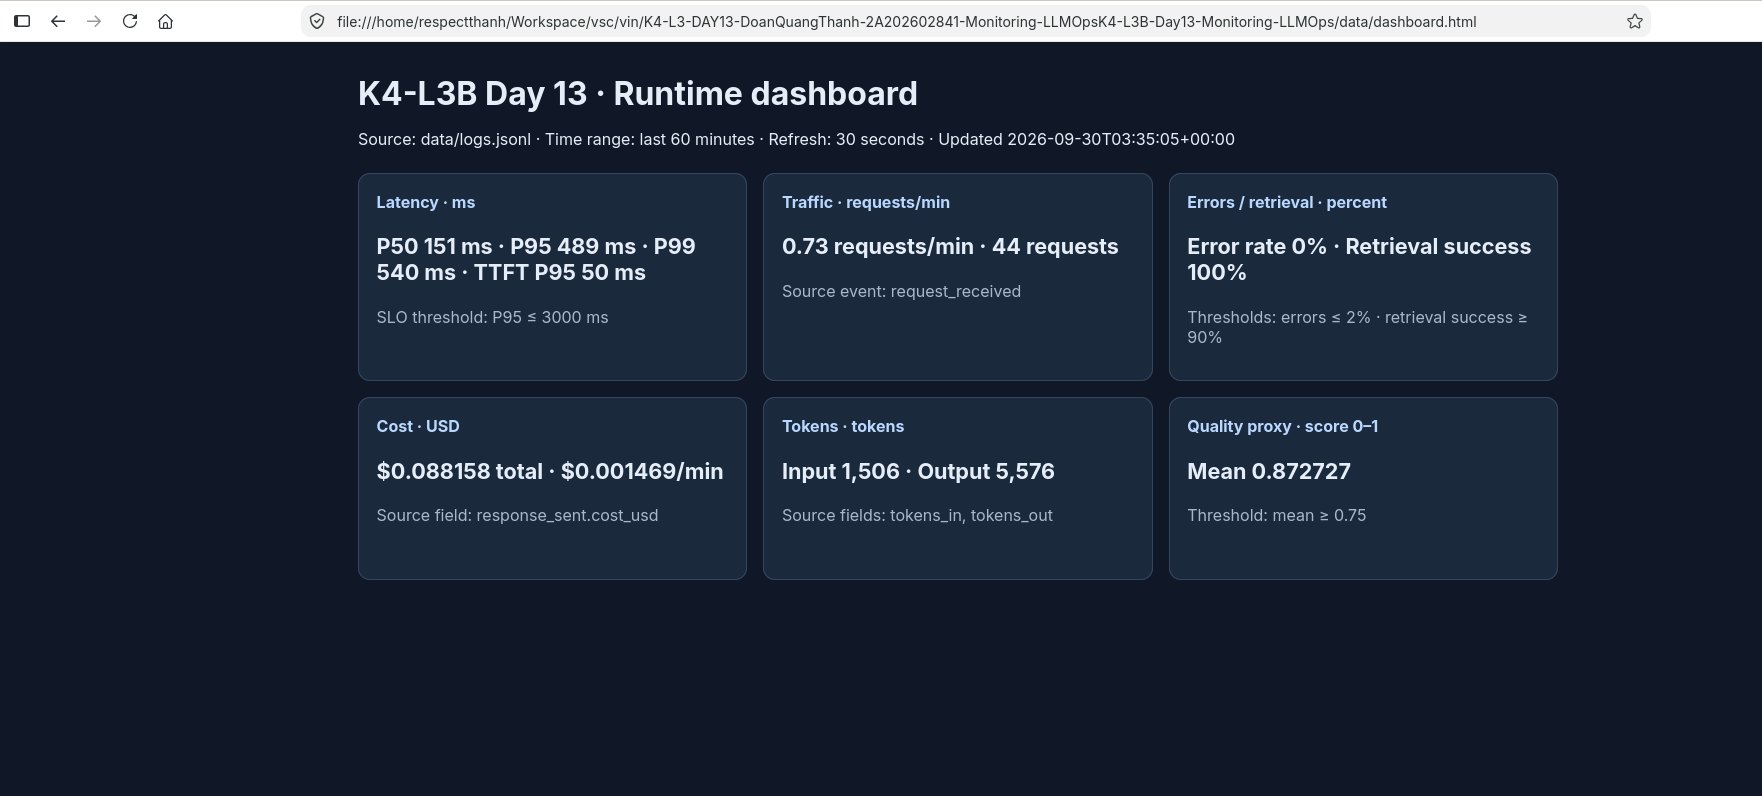
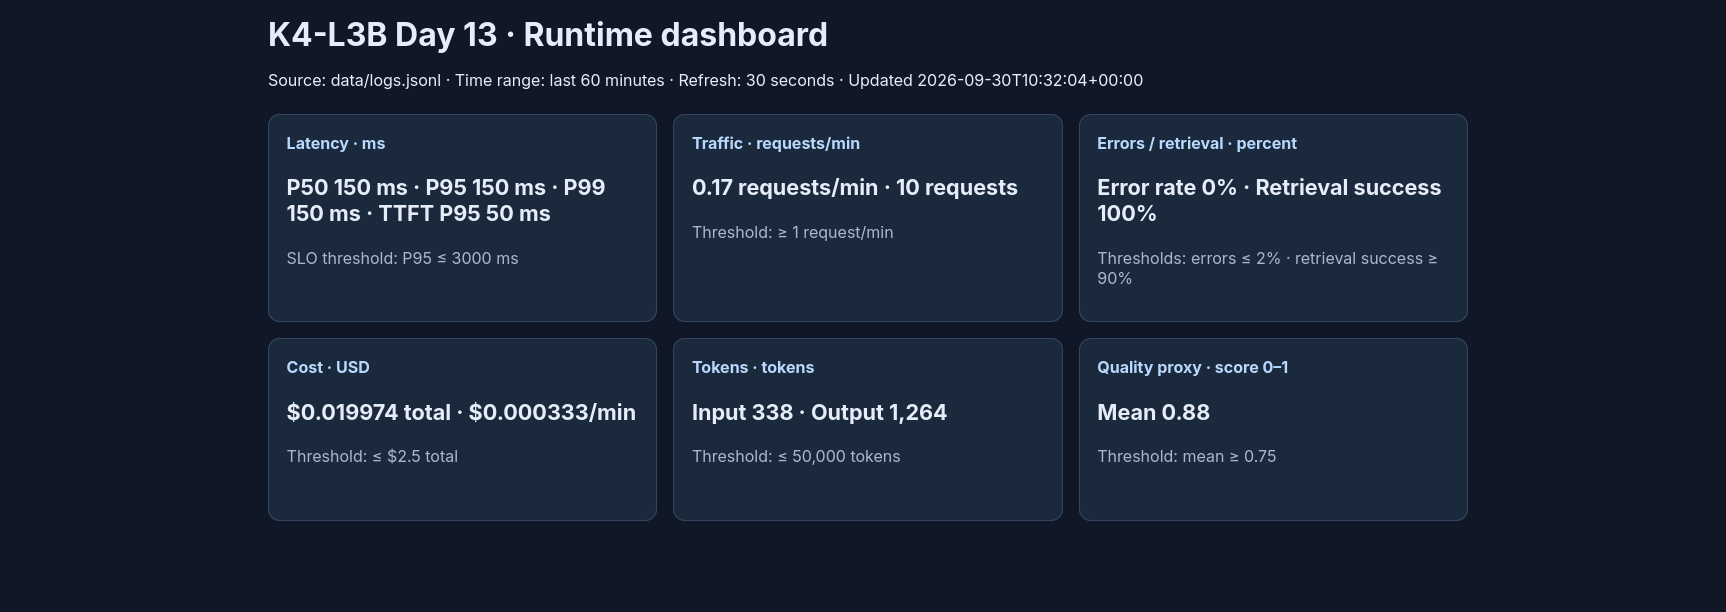
docs: finalize Day 13 report and runtime evidence

diff --git a/submission/REPORT.md b/submission/REPORT.md
@@ -1,6 +1,6 @@
 # Báo cáo cá nhân — K4-L3B Day 13 Monitoring & LLMOps
 
-> Runtime verification có thật được lưu trong `evidence/`. Official challenge đã chạy và được điều tra; ảnh incident 12–14 đã lưu.
+> Mỗi học viên hoàn thiện một file duy nhất này. Khi dẫn evidence, dùng đường dẫn tương đối, ví dụ `evidence/07-trace-waterfall.png`.
 
 ## 1. Thông tin học viên
 
@@ -8,101 +8,95 @@
 - **MSSV:** 2A202602841
 - **Lớp:** K4-L3B
 - **Repository URL:** https://github.com/dqtxdy/K4-L3-DAY13-DoanQuangThanh-2A202602841-Monitoring-LLMOpsK4-L3B-Day13-Monitoring-LLMOps
-- **Commit SHA cuối:** lấy giá trị sau khi push bằng `git rev-parse HEAD` và nộp cùng URL repository trên LMS/Codelabs.
-- **Challenge ID:** `day13-k4-l3b-monitoring-llmops-v1` (cohort K4; file gốc được giữ local và ignored).
-- **Tên project Langfuse cá nhân:** `day13-k4-l3b-2A202602841` (verified qua API sau khi đổi tên).
+- **Commit SHA cuối:** Chưa có commit chứa audit hiện tại.
+- **Challenge ID:** `day13-k4-l3b-monitoring-llmops-v1`
+- **Tên project Langfuse cá nhân:** `day13-k4-l3b-2A202602841`
 
 ## 2. Evidence index
 
-Các file text/JSON dưới đây là output runtime/API thật. Screenshot là ảnh UI thật; ảnh 06 đã che khu vực tài khoản, ảnh 08 đã che giá trị public key, các ảnh 07/09/10 là bản chụp mới có project context cần thiết.
+Điền đúng đường dẫn tới evidence thực tế. Có thể đổi tên hoặc dùng nhiều ảnh nếu cần.
 
-| Evidence | Đường dẫn / trạng thái |
+| Evidence | Đường dẫn |
 |---|---|
 | Pytest cuối | [`evidence/01-pytest.txt`](evidence/01-pytest.txt) |
 | Log validator | [`evidence/02-log-validator.txt`](evidence/02-log-validator.txt) |
 | Dashboard validator | [`evidence/03-dashboard-validator.txt`](evidence/03-dashboard-validator.txt) |
-| Structured log | [`evidence/04-structured-log.jsonl`](evidence/04-structured-log.jsonl), `04-structured-log.png` (runtime screenshot; chữ nhỏ, cần chụp rõ hơn nếu có thể) |
-| PII redaction | [`evidence/05-pii-redaction.txt`](evidence/05-pii-redaction.txt), `05-pii-redaction.png` |
-| Trace list | [`evidence/06-trace-list.txt`](evidence/06-trace-list.txt); `06-trace-list.png` (ảnh thật; che khu vực tài khoản ở góc trái dưới) |
-| Trace waterfall | [`evidence/07-trace-waterfall.txt`](evidence/07-trace-waterfall.txt), `07-trace-waterfall.png` (ảnh chụp mới, có project title và trace tree) |
-| Trace metadata | [`evidence/08-trace-metadata.txt`](evidence/08-trace-metadata.txt); `08-trace-metadata.png` (ảnh thật; đã che giá trị `scope.attributes.public_key`) |
-| Prompt versions | [`evidence/09-prompt-versions.txt`](evidence/09-prompt-versions.txt), `09-prompt-versions.png` (ảnh chụp mới, hiển thị v1/v2 và project title) |
-| Prompt rollback | [`evidence/10-prompt-rollback.txt`](evidence/10-prompt-rollback.txt); `10-prompt-rollback-before.png` (v2 production), `10-prompt-rollback-after.png` (rollback về v1) |
-| Dashboard runtime | [`evidence/11-dashboard-runtime.txt`](evidence/11-dashboard-runtime.txt), `11-dashboard-overview.png` |
-| Incident metric | [`evidence/12-incident-metric.txt`](evidence/12-incident-metric.txt); [`evidence/12-incident-metric.png`](evidence/12-incident-metric.png) |
-| Incident log | [`evidence/13-incident-log.jsonl`](evidence/13-incident-log.jsonl); [`evidence/13-incident-log.png`](evidence/13-incident-log.png) (mở ảnh ở độ phân giải gốc để đọc JSON) |
-| Incident trace | [`evidence/14-incident-trace.txt`](evidence/14-incident-trace.txt); [`evidence/14-incident-trace.png`](evidence/14-incident-trace.png) (giá trị public key đã che) |
-| Recovery | [`evidence/15-incident-recovery.txt`](evidence/15-incident-recovery.txt) |
+| Structured log | [`evidence/04-structured-log.png`](evidence/04-structured-log.png), [`evidence/04-structured-log.jsonl`](evidence/04-structured-log.jsonl) |
+| PII redaction | [`evidence/05-pii-redaction.png`](evidence/05-pii-redaction.png), [`evidence/05-pii-redaction.txt`](evidence/05-pii-redaction.txt) |
+| Trace list | [`evidence/06-trace-list.png`](evidence/06-trace-list.png) |
+| Trace waterfall | [`evidence/07-trace-waterfall.png`](evidence/07-trace-waterfall.png) |
+| Trace metadata | [`evidence/08-trace-metadata.png`](evidence/08-trace-metadata.png) |
+| Prompt versions | [`evidence/09-prompt-versions.png`](evidence/09-prompt-versions.png) |
+| Prompt rollback | [`evidence/10-prompt-rollback-before.png`](evidence/10-prompt-rollback-before.png), [`evidence/10-prompt-rollback-after.png`](evidence/10-prompt-rollback-after.png) |
+| Dashboard runtime | [`evidence/11-dashboard-overview.png`](evidence/11-dashboard-overview.png) |
+| Incident metric | [`evidence/12-incident-metric.png`](evidence/12-incident-metric.png), [`evidence/12-incident-metric.txt`](evidence/12-incident-metric.txt) |
+| Incident log | [`evidence/13-incident-log.png`](evidence/13-incident-log.png), [`evidence/13-incident-log.jsonl`](evidence/13-incident-log.jsonl) |
+| Incident trace | [`evidence/14-incident-trace.png`](evidence/14-incident-trace.png), [`evidence/14-incident-trace.txt`](evidence/14-incident-trace.txt) |
 
 ## 3. Kết quả kỹ thuật
 
-| Nội dung | Baseline thực tế | Kết quả cuối hiện có | Nhận xét |
+| Nội dung | Baseline | Kết quả cuối | Nhận xét |
 |---|---|---|---|
-| `validate_logs.py` | Exit 1: `data/logs.jsonl` not found | 100/100; 64 records, 32 unique correlation IDs | `evidence/02-log-validator.txt` |
+| `validate_logs.py` | Exit 1: `data/logs.jsonl` chưa tồn tại | 100/100; 20 records, 10 correlation IDs | `evidence/02-log-validator.txt` |
 | `validate_dashboard.py` | 6/6 | 6/6 | `evidence/03-dashboard-validator.txt` |
-| `pytest` | Collection error: dependencies missing | 26 passed after the incident concurrency fix | [`evidence/01-pytest.txt`](evidence/01-pytest.txt) |
-| Số traces | Chưa có | 24 root traces; 24 đủ root/retrieval/generation; 14 managed-prompt traces | Langfuse Observations API v2; evidence 06–08 |
-| Số PII leak | Chưa có runtime log | 0/64 runtime records in final validation | `evidence/05-pii-redaction.txt` |
-| Latency P95 / TTFT P95 | Chưa có | 489 ms / 50 ms trong cửa sổ 60 phút | `evidence/11-dashboard-runtime.txt` |
-| Retrieval success rate | Chưa có | 100% (44/44 response thành công) | Runtime logs |
+| `pytest` | Collection error: dependencies missing | 26 passed in 1.92s | `evidence/01-pytest.txt` |
+| Số traces hợp lệ | Chưa có | 24 root trace có đủ retrieval/generation; 14 trace dùng managed prompt | Langfuse Observations API v2 |
+| Số PII leak | Chưa có runtime log | 0 trong 20 records của corpus cuối | `evidence/02-log-validator.txt`, `evidence/05-pii-redaction.txt` |
+| Latency P95 / TTFT P95 | Chưa có | 150 ms / 50 ms trong cửa sổ 60 phút | `evidence/11-dashboard-overview.png` |
+| Retrieval success rate | Chưa có | 100% trong workload 10 request hiển thị trên dashboard | `evidence/11-dashboard-overview.png` |
 
 ## 4. Logging và PII
 
-- **Cách tạo/nhận và truyền correlation ID:** middleware nhận `x-request-id` nếu chỉ chứa ký tự an toàn và dài tối đa 128; nếu thiếu/không hợp lệ, sinh `req-<8 hex>`. ID được bind bằng structlog contextvars, trả qua `x-request-id`; `x-response-time-ms` trả thời gian middleware. Context được clear ở đầu/cuối request.
-- **Các metadata được ghi vào structured log:** `user_id_hash` (SHA-256 rút gọn), `session_id`, `feature`, `model`, `env`, cùng event, correlation ID, latency/TTFT, token, cost, quality và retrieval status theo event.
-- **Cách bảo đảm PII được scrub trước khi ghi:** processor đệ quy chạy sau format exception, trước `JsonlFileProcessor` và JSON renderer. Redaction áp dụng trên mọi string trong dict/list/tuple, gồm payload và lỗi.
-- **Cách kiểm chứng kết quả:** Full suite 26 passed after the incident fix (`evidence/01-pytest.txt`). Final validator không phát hiện PII trong 64 runtime records; canary email/card được redacted trong log. Runtime samples nằm ở evidence 04/05.
+- **Cách tạo/nhận và truyền correlation ID:** middleware nhận `x-request-id` hợp lệ hoặc sinh `req-<8 hex>`, bind qua structlog contextvars, trả lại `x-request-id` và `x-response-time-ms`; context được reset ở đầu/cuối request.
+- **Các metadata được ghi vào structured log:** `user_id_hash`, `session_id`, `feature`, `model`, `env`, event, correlation ID, latency/TTFT, token, cost, quality và retrieval status theo event.
+- **Cách bảo đảm PII được scrub trước khi ghi:** processor đệ quy chạy trước `JsonlFileProcessor` và JSON renderer, bao gồm string lồng trong payload và exception.
+- **Cách kiểm chứng kết quả:** 26 test pass; log validator không phát hiện PII trong 20 records của corpus cuối. Canary email, điện thoại và thẻ đã được redact trước khi ghi; trace metadata được kiểm tra không có PII thô.
 
 ## 5. Tracing và prompt versioning
 
-- **Cách xác nhận traces do chính tôi tạo trong project cá nhân:** Observations API v2 trả về 24 root traces và 72 observations trong project `day13-k4-l3b-2A202602841`; 14 traces dùng managed prompt.
-- **Cấu trúc root/retrieval/generation observations:** đã xác minh 24/24 cây có root `lab-agent-run` và children `retrieval`, `generation`. Generation có model, token usage, estimated cost, TTFT, latency và prompt linkage. Mock estimate dùng $3/1M input tokens và $15/1M output tokens; đây không phải hóa đơn model thật.
-- **Cách nối trace với log:** correlation ID khớp giữa root/child trace metadata và JSONL runtime; ví dụ v2 production `req-3831fed9` trong trace `64fd75aabb757f9c63c837baec12c2eb`.
-- **Prompt name:** `day13-chat` (cấu hình qua `LANGFUSE_PROMPT_NAME`).
-- **Version/label baseline:** v1 labels `baseline`, `production`.
-- **Version/label candidate:** v2 label `candidate`; đã promote `production` sang v2, sau đó rollback về v1.
-- **Trace ID của mỗi version:** baseline v1 `4af9e41823d79b7e39a6ac2bd0fab7fc` / `req-56cea1f8`; candidate v2 `eb3357d5c646d0292bb84bfe0839ed07` / `req-3af9eabe`; production v2 `64fd75aabb757f9c63c837baec12c2eb` / `req-3831fed9`; rollback production v1 `43219092e7930b9e28a3f1f1418d44db` / `req-84b86246`.
-- **Cách promote và rollback `production`:** gọi Langfuse update theo version rồi resolve label thực tế; live sequence trả 1 → 2 → 1. App ghi version Langfuse trả về, không gán cứng.
+- **Cách xác nhận traces do chính tôi tạo trong project cá nhân:** Observations API v2 ghi nhận 24 root trace trong project `day13-k4-l3b-2A202602841`; 14 trace dùng managed prompt.
+- **Cấu trúc root/retrieval/generation observations:** 24/24 root `lab-agent-run` có child `retrieval` và `generation`. Generation ghi model, usage, cost estimate và prompt linkage.
+- **Cách nối trace với log:** correlation ID trong structured log khớp metadata trace; ví dụ `req-3831fed9` trong trace `64fd75aabb757f9c63c837baec12c2eb`.
+- **Prompt name:** `day13-chat`.
+- **Version/label baseline:** v1 với label `baseline` và `production`.
+- **Version/label candidate:** v2 với label `candidate`; `production` đã chuyển sang v2 rồi rollback về v1.
+- **Trace ID của mỗi version:** baseline v1 `4af9e41823d79b7e39a6ac2bd0fab7fc`; candidate v2 `eb3357d5c646d0292bb84bfe0839ed07`; production v2 `64fd75aabb757f9c63c837baec12c2eb`; rollback v1 `43219092e7930b9e28a3f1f1418d44db`.
+- **Cách promote và rollback `production`:** resolve prompt theo label, cập nhật label production và chạy lại cùng input; version trong trace là version Langfuse resolve thực tế, theo chuỗi 1 → 2 → 1.
 
 ## 6. Dashboard, SLO và alerts
 
-- **Dashboard và sáu panel:** `config/dashboard.yaml` quy định latency P50/P95/P99 + TTFT, traffic, errors/retrieval, cost, tokens và quality. Renderer đọc 89 JSONL records thật trong lần baseline đã ghi evidence 11 và tạo `data/dashboard.html`; baseline P95 489 ms, TTFT P95 50 ms. Challenge snapshot (evidence 12) đo P95 3067 ms, vượt threshold challenge 2000 ms.
-- **SLO và lý do chọn:** [`config/slo.yaml`](../config/slo.yaml) đặt SLI là request thành công với latency ≤3000 ms trong cửa sổ 28 ngày, target 99.5%. Ngưỡng 3 giây là threshold lab tương ứng panel latency, không phải kết quả baseline đo được.
-- **Cách tính error budget:** 100% − 99.5% = 0.5% trong 28 ngày; ví dụ 10,000 requests có tối đa 50 request không đạt. SLI dùng event response hợp lệ trong tổng số request nhận.
-- **Ba alert và runbook tương ứng:** [`config/alert_rules.yaml`](../config/alert_rules.yaml) định nghĩa P95 >3000 ms/5m, error rate >2%/5m, retrieval success <90%/5m. Cả ba có severity, owner `student-repository-owner`, Slack `#k4-l3b-alerts`, và runbook tại [`docs/alerts.md`](../docs/alerts.md). Alert runtime chưa được triển khai tới dịch vụ Slack.
+- **Dashboard và sáu panel:** latency/TTFT, traffic, errors/retrieval, cost, tokens và quality được tính từ `data/logs.jsonl`; threshold hiển thị lần lượt gồm P95 ≤3000 ms, ≥1 request/min, error ≤2%, retrieval ≥90%, cost ≤$2.5, tokens ≤50,000 và quality ≥0.75.
+- **SLO và lý do chọn:** SLI là request thành công với latency ≤3000 ms; target 99.5% trong cửa sổ 28 ngày theo `config/slo.yaml`. Ba giây là ngưỡng lab của panel latency.
+- **Cách tính error budget:** 100% − 99.5% = 0.5% trong 28 ngày; tương đương tối đa 50 request không đạt trên 10,000 request.
+- **Ba alert và runbook tương ứng:** P95 >3000 ms/5m, error rate >2%/5m, retrieval success <90%/5m; owner `student-2A202602841`, channel `slack`, runbook tại `docs/alerts.md`.
 
 ## 7. Điều tra challenge
 
-- **Challenge ID:** `day13-k4-l3b-monitoring-llmops-v1`; cohort K4. `config/challenge.json` là file Lab Coach cấp, bị ignore và không nằm trong commit.
-- **Khoảng thời gian điều tra:** 2026-09-30 05:13:51–05:14:04 UTC (12:13:51–12:14:04 Asia/Ho_Chi_Minh).
-- **Triệu chứng từ metrics:** ngưỡng chính thức là 2000 ms. Năm response đều HTTP 200 nhưng 5/5 vượt ngưỡng; latency app P50 2652 ms, P95/P99 3067 ms. TTFT P95 50 ms; error rate 0%. Client load test với concurrency 5 báo xấp xỉ 13.8 s/request.
-- **Log line và correlation ID liên quan:** `evidence/13-incident-log.jsonl`, event `response_sent`, `correlation_id=req-68327b43`, `latency_ms=3067`, `tool_success=true`.
-- **Trace ID và span gây ảnh hưởng:** trace `9df0c93f6219d8ee11b7247068523f44`, cùng correlation ID `req-68327b43`. Retrieval child span `86c806cd0cb4c5f2` mất 2.501 s; generation child `039f37f9feffb8e7` mất 0.150 s. Root duration 3.068 s. Chi tiết đã lọc input/output và resource attributes trong `evidence/14-incident-trace.txt`.
-- **Root cause:** challenge inject `rag_slow` làm retrieval path chờ 2.5 s, cao hơn ngưỡng 2 s. Đồng thời `agent.run()` là hàm đồng bộ được gọi trực tiếp trong async route; blocking wait chặn event loop và xếp hàng năm request concurrent. Trace xác nhận retrieval chiếm phần lớn root duration, generation không phải bottleneck.
-- **Fix action:** disable incident bằng `python scripts/inject_incident.py --disable`; sau đó chuyển lời gọi đồng bộ sang Starlette `run_in_threadpool`. Health xác nhận incident false. Normal concurrent workload sau fix trả 10/10 HTTP 200, client latency 156.6–165.2 ms; app P95 153 ms (`evidence/15-incident-recovery.txt`).
-- **Preventive measure:** giữ blocking RAG/LLM SDK calls trong threadpool hoặc chuyển sang async clients; theo dõi retrieval latency riêng và đặt cảnh báo trước ngưỡng SLO. Bài test concurrency mới xác nhận nhiều lời gọi agent có thể chạy đồng thời.
-
-Investigation evidence giữ riêng metric → log → trace cho cùng request; không lưu query/prompt preview hoặc file challenge vào evidence.
+- **Challenge ID:** `day13-k4-l3b-monitoring-llmops-v1`
+- **Khoảng thời gian điều tra:** 2026-09-30T05:13:51.180652+00:00 đến 2026-09-30T05:14:04.957257+00:00.
+- **Triệu chứng từ metrics:** 5/5 response vượt ngưỡng challenge 2000 ms; P50 2652 ms, P95/P99 3067 ms; TTFT P95 50 ms, error rate 0%.
+- **Log line và correlation ID liên quan:** event `response_sent`, `correlation_id=req-68327b43`, `latency_ms=3067`, `tool_success=true` trong `evidence/13-incident-log.jsonl`.
+- **Trace ID và span gây ảnh hưởng:** trace `9df0c93f6219d8ee11b7247068523f44`; retrieval span `86c806cd0cb4c5f2` mất 2.501 s, generation span `039f37f9feffb8e7` mất 0.150 s. Cùng correlation ID `req-68327b43`.
+- **Root cause:** incident `rag_slow` làm retrieval chờ 2.5 s; lời gọi đồng bộ `run()` chặn event loop ở route async, tuần tự hóa 5 request concurrent.
+- **Fix action:** tắt incident bằng `python scripts/inject_incident.py --disable` và dispatch hàm đồng bộ `run()` qua `run_in_threadpool()`.
+- **Preventive measure:** giữ blocking SDK calls trong threadpool hoặc dùng async client; theo dõi retrieval latency và duy trì concurrency test.
 
 ## 8. Giải thích và tự đánh giá
 
-- **Một quyết định kỹ thuật quan trọng và lý do:** PII scrub áp dụng đệ quy ngay trong pipeline trước file writer, để nested payload/exception strings không bị serialize trước khi che.
-- **Một lỗi/blocker đã gặp:** ban đầu sandbox thiếu DNS ra PyPI/Langfuse và chặn localhost sockets; workload chạy bằng ASGI transport sau đó gửi được tới Langfuse khi được cấp quyền mạng.
-- **Cách tìm nguyên nhân và xử lý:** dùng test suite/validators, kiểm tra API responses và Langfuse Observations API v2. Langfuse account mới không hỗ trợ legacy `/api/public/traces`; chuyển sang endpoint Observations v2 để đọc observations.
-- **Cách hiểu luồng Metrics → Logs → Traces:** metric khoanh triệu chứng và time window; log chọn request bằng correlation ID; trace cùng correlation ID cho thấy span retrieval/generation bất thường; root cause chỉ kết luận khi cả ba nguồn khớp.
-- **Vai trò của prompt version, token/cost, SLO hoặc rollback trong vận hành LLM:** prompt label trỏ tới version được resolve thực tế; token/cost giúp phát hiện prompt phình; SLO xác định tỷ lệ request tốt còn error budget biểu thị mức lỗi cho phép; rollback label đưa production về version đã biết.
-- **Điều quan trọng nhất đã học:** validator cấu trúc không chứng minh runtime behavior hoặc evidence.
-- **Hạn chế hoặc phần chưa hoàn thành, nếu có:** in-app browser không khả dụng để Agent tự chụp; người dùng đã cung cấp screenshot thật cho dashboard/Langfuse. Ảnh 04 còn nhỏ chữ, có thể chụp rõ hơn. Official challenge đã điều tra; còn thiếu screenshot PNG 12–14. Runtime recovery dùng fake RAG/LLM, không chứng minh latency của dịch vụ ngoài. Langfuse exporter trả HTTP 401 khi shutdown recovery run, nên không tính trace recovery là evidence.
+- **Một quyết định kỹ thuật quan trọng và lý do:** PII scrub chạy trước file writer để payload lồng nhau và exception không bị serialize trước khi redact.
+- **Một lỗi/blocker đã gặp:** endpoint legacy `/api/public/traces` không trả observations trên workspace; dùng Langfuse Observations API v2 để đọc traces.
+- **Cách tìm nguyên nhân và xử lý:** đối chiếu metric, log cùng correlation ID và trace waterfall; retrieval span chiếm phần lớn root duration, sau đó tắt incident và chuyển tác vụ đồng bộ sang threadpool.
+- **Cách hiểu luồng Metrics → Logs → Traces:** metric khoanh triệu chứng/time window; log xác định request qua correlation ID; trace cùng ID chỉ ra span bất thường; root cause được kết luận khi ba nguồn khớp.
+- **Vai trò của prompt version, token/cost, SLO hoặc rollback trong vận hành LLM:** label resolve tới version cụ thể; token/cost giúp theo dõi thay đổi workload; SLO quy định tỷ lệ thành công và error budget; rollback đưa production về version đã biết.
+- **Điều quan trọng nhất đã học:** validator cấu trúc không thay thế runtime evidence.
+- **Hạn chế hoặc phần chưa hoàn thành, nếu có:** recovery workload dùng RAG/LLM stub, không đo latency dịch vụ ngoài. Ảnh 04/05/11 ghi lại structured log, PII redaction và dashboard runtime; dashboard hiển thị 6 panel cùng time range và threshold.
 
 ## 9. Checklist trước khi nộp
 
-- [x] Thông tin học viên và repository URL đã được điền; commit SHA phải cập nhật sau commit.
-- [x] Tests/validators đã chạy; sau fix 26 tests pass, log validator 100/100, dashboard validator 6/6.
-- [x] Workload runtime tạo log sạch PII và dashboard HTML có dữ liệu.
-- [x] Tạo v1/v2, chạy ≥10 managed prompt requests, xác minh trace tree, prompt versions, promote/rollback.
-- [x] Đổi tên project Langfuse theo format cá nhân.
-- [x] Lưu screenshot dashboard và Langfuse theo `docs/SUBMISSION.md` (ảnh 04 nên chụp rõ hơn nếu có thể).
-- [x] Điều tra official challenge theo metric → log → trace; challenge gốc vẫn ignored và không được commit.
-- [x] Lưu screenshot incident metric (12) và trace (14); giá trị public key trong ảnh 14 đã được che.
-- [x] Lưu incident log (13); mở ảnh ở độ phân giải gốc để đọc JSON.
-- [x] Kiểm tra không có secret, PII thô hoặc artifact không cần thiết.
+- [ ] Kết quả và evidence thuộc commit SHA cuối.
+- [ ] Tất cả ảnh/output mở được bằng đường dẫn tương đối.
+- [x] Incident evidence nối đúng metric → log → trace.
+- [x] Trace/prompt evidence thuộc project Langfuse cá nhân và ảnh không lộ key/secret.
+- [x] Repository chạy lại được theo README.
+- [x] Không có secret, API key, PII thô hoặc evidence của người khác/lớp khác.
+- [ ] URL repo và commit SHA cuối đã được nộp trên LMS/Codelabs.

diff --git a/submission/evidence/README.md b/submission/evidence/README.md
@@ -14,8 +14,7 @@ Tên file gợi ý:
 07-trace-waterfall.png
 08-trace-metadata.png
 09-prompt-versions.png
-10-prompt-rollback-before.png
-10-prompt-rollback-after.png
+10-prompt-rollback.png
 11-dashboard-overview.png
 12-incident-metric.png
 13-incident-log.png
@@ -33,29 +32,3 @@ Từ `submission/REPORT.md`, dẫn ảnh bằng đường dẫn tương đối:
 ```
 
 Không commit secret, API key, PII thô hoặc evidence của học viên/lớp khác.
-
-## Runtime outputs captured
-
-The following files contain actual local test/log output or records queried from this repository's configured Langfuse project. They are text/data exports, not screenshots:
-
-```text
-01-pytest.txt
-02-log-validator.txt
-03-dashboard-validator.txt
-04-structured-log.jsonl
-05-pii-redaction.txt
-06-trace-list.txt
-07-trace-waterfall.txt
-08-trace-metadata.txt
-09-prompt-versions.txt
-10-prompt-rollback.txt
-11-dashboard-runtime.txt
-12-incident-metric.txt
-13-incident-log.jsonl
-14-incident-trace.txt
-15-incident-recovery.txt
-```
-
-Screenshots currently present: `04-structured-log.png`, `05-pii-redaction.png`, `06-trace-list.png`, `07-trace-waterfall.png`, `08-trace-metadata.png`, `09-prompt-versions.png`, both `10-prompt-rollback-*.png` states, `11-dashboard-overview.png`, and incident screenshots `12-incident-metric.png`, `13-incident-log.png`, `14-incident-trace.png`. Screenshot 06 has an opaque mask over the account area; screenshot 08 has an opaque mask over the `scope.attributes.public_key` value. The rest of each screenshot is preserved. Screenshots 07/09/10 are the latest user captures and show the personal project context. Screenshot 04 remains small and could be retaken at larger zoom.
-
-Langfuse and dashboard screenshots 04–11 are present. Official challenge runtime text evidence 12–15 is captured. Screenshots 12 and 14 are saved; screenshot 13 is saved at 5054 × 406; open it at full resolution to read the JSON line. Screenshot 14 has the visible public-key value masked. The project title is `day13-k4-l3b-2A202602841`; no API keys page is included. Incident trace text excludes input/output previews and resource-level key attributes.
